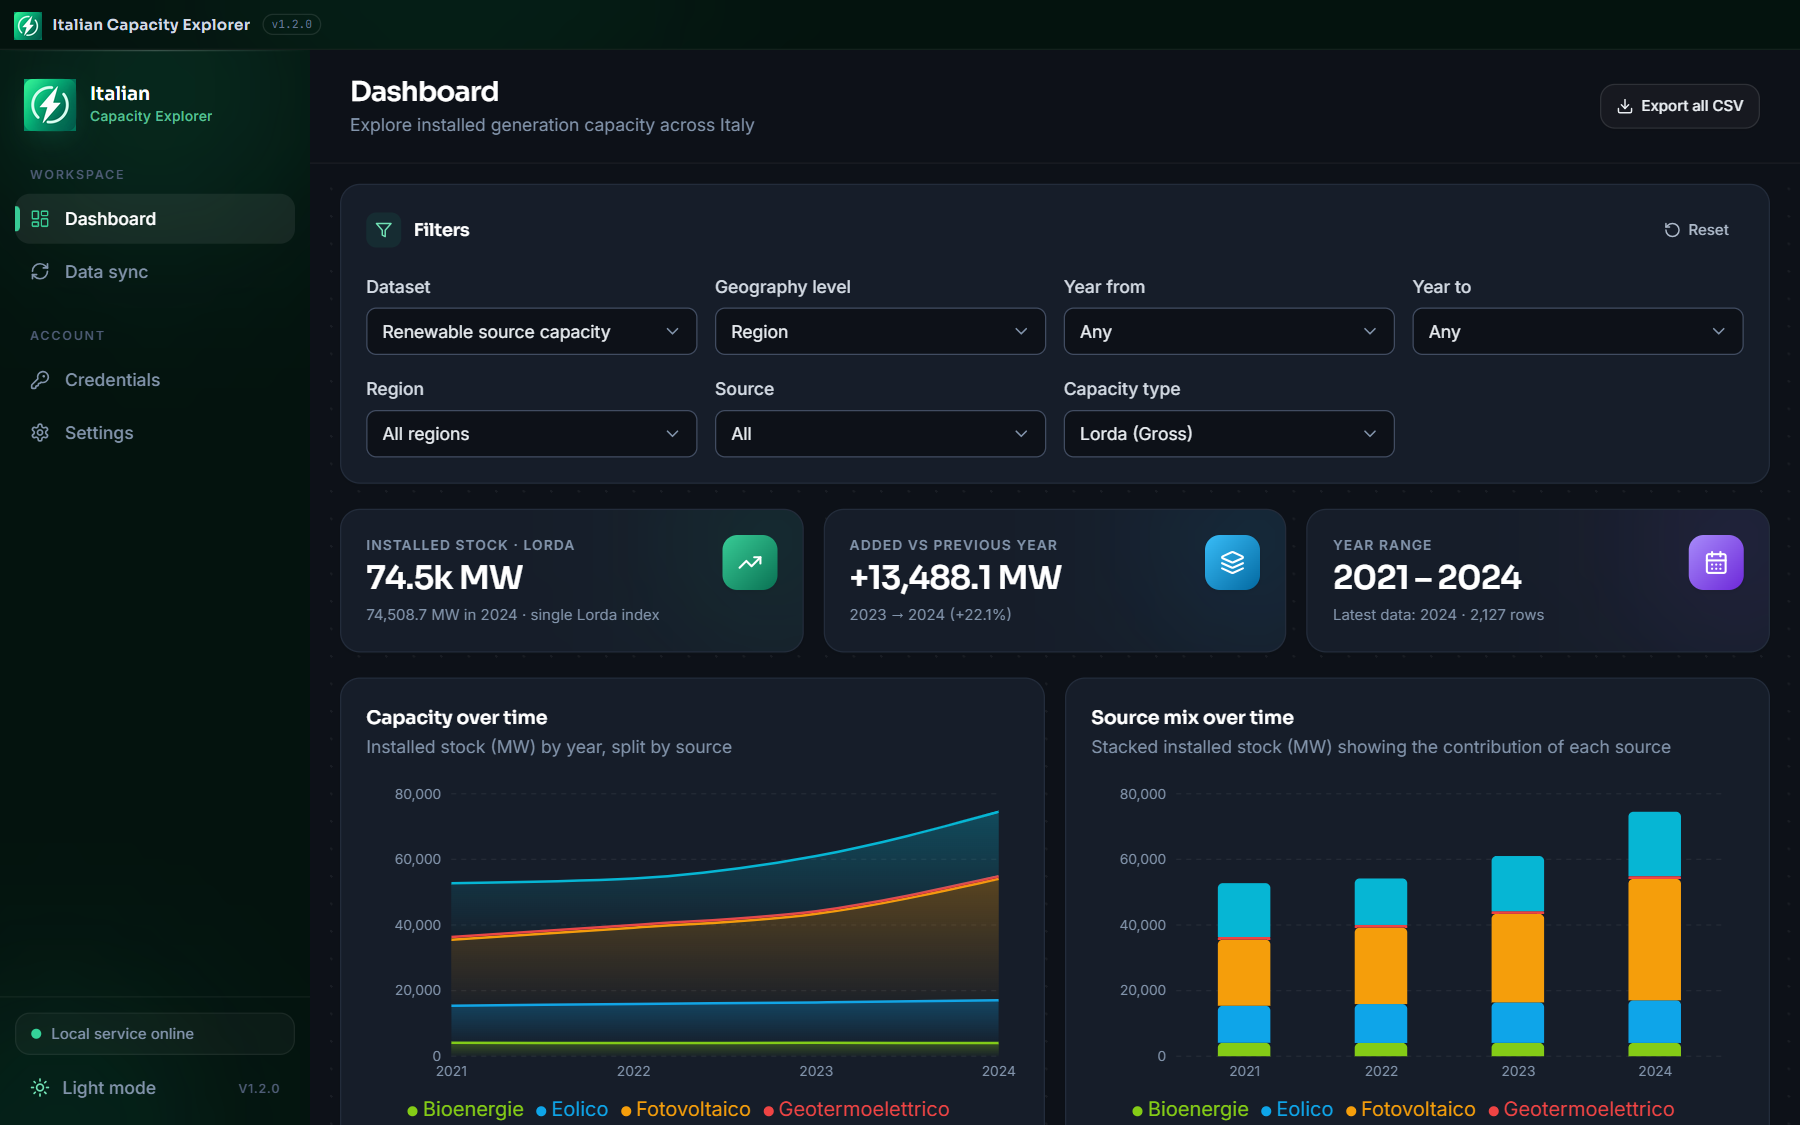
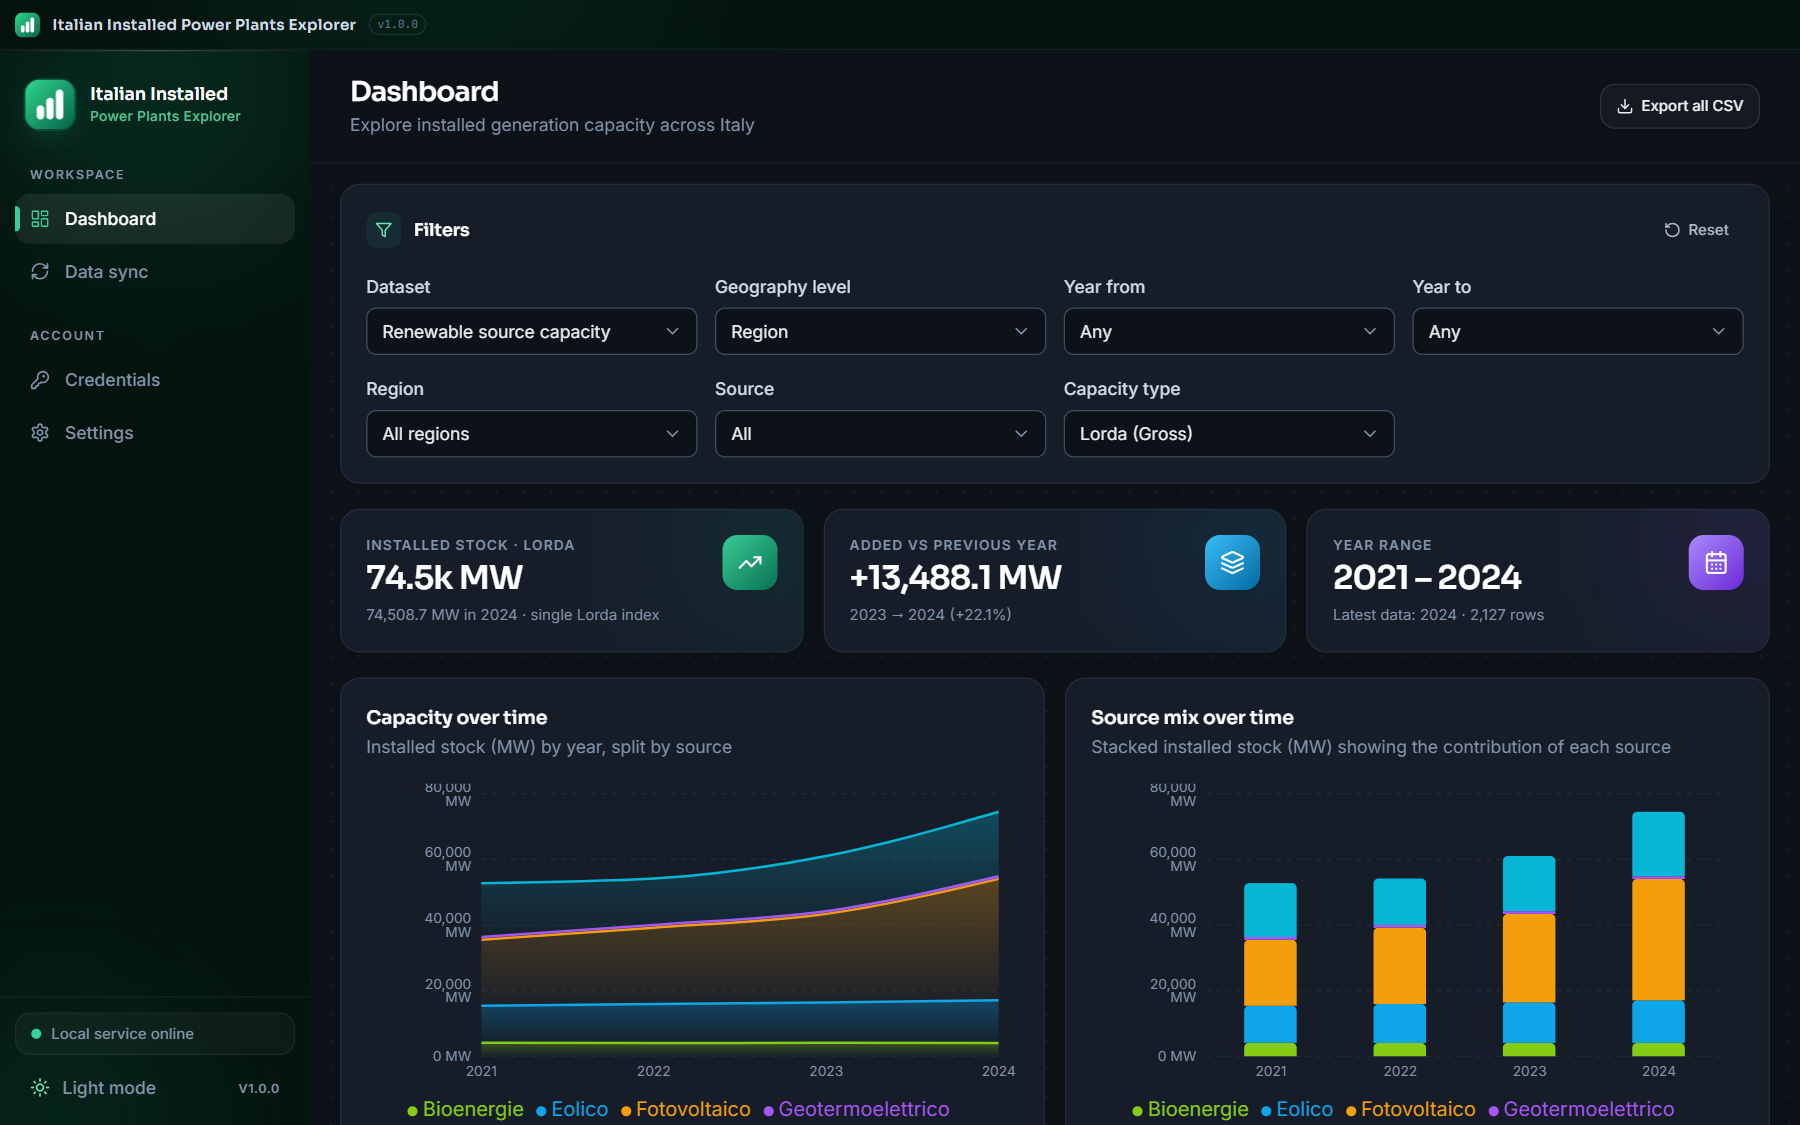
Rename to Italian Installed Power Plants Explorer, first release 1.0.0
The product, package, repository slug, PWA manifest, window title and documentation now use the final name; the app data folder migrates from both previous names (ItalianCapacityExplorer and TernaInstalledCapacity) keeping the cache intact — verified on a real install with 12.232 rows. Version reset to 1.0.0 for the first public release, interface rebuilt, screenshots recaptured and the social/hero images regenerated with the new name.

diff --git a/static/index.html b/static/index.html
@@ -6,26 +6,26 @@
     <link rel="manifest" href="/manifest.webmanifest" />
     <link rel="apple-touch-icon" href="/icon-192.png" />
     <meta name="viewport" content="width=device-width, initial-scale=1.0" />
-    <meta name="description" content="Italian Capacity Explorer — explore installed generation capacity across Italy, locally on your desktop." />
+    <meta name="description" content="Italian Installed Power Plants Explorer — explore installed generation capacity across Italy, locally on your desktop." />
     <meta name="theme-color" content="#04130e" />
     <meta property="og:type" content="website" />
-    <meta property="og:title" content="Italian Capacity Explorer" />
+    <meta property="og:title" content="Italian Installed Power Plants Explorer" />
     <meta property="og:description" content="Explore Italy's installed generation capacity locally, with Terna data." />
     <meta property="og:image" content="/og-image.png" />
     <meta property="og:image:width" content="1200" />
     <meta property="og:image:height" content="630" />
     <meta name="twitter:card" content="summary_large_image" />
-    <meta name="twitter:title" content="Italian Capacity Explorer" />
+    <meta name="twitter:title" content="Italian Installed Power Plants Explorer" />
     <meta name="twitter:description" content="Explore Italy's installed generation capacity locally, with Terna data." />
     <meta name="twitter:image" content="/og-image.png" />
-    <title>Italian Capacity Explorer</title>
-    <script type="module" crossorigin src="/assets/index-BglHf0e7.js"></script>
+    <title>Italian Installed Power Plants Explorer</title>
+    <script type="module" crossorigin src="/assets/index-B0g5nmNv.js"></script>
     <link rel="modulepreload" crossorigin href="/assets/vendor-react-CTF3l6S7.js">
     <link rel="modulepreload" crossorigin href="/assets/vendor-query-BX4wGWa-.js">
     <link rel="modulepreload" crossorigin href="/assets/vendor-charts-Bp6O3Z6U.js">
-    <link rel="stylesheet" crossorigin href="/assets/index-BtmEehbX.css">
+    <link rel="stylesheet" crossorigin href="/assets/index-CU5AfCiO.css">
   </head>
   <body>
-    <div id="root"></div>
+    <div id="root"></div>
   </body>
 </html>

diff --git a/tests/settings.test.ts b/tests/settings.test.ts
@@ -12,28 +12,30 @@ afterEach(() => {
   else process.env.TERNA_APP_DATA_DIR = previousDataDir;
 });
 
-test("la cartella dati migra dal nome precedente alla rinomina", () => {
+test("la cartella dati migra dai nomi precedenti a quello attuale", () => {
   delete process.env.TERNA_APP_DATA_DIR;
-  const root = mkdtempSync(join(tmpdir(), "ice-root-"));
-  const legacy = join(root, "TernaInstalledCapacity");
-  mkdirSync(legacy, { recursive: true });
-  writeFileSync(join(legacy, "settings.json"), '{"client_id":"vecchio"}', "utf8");
+  for (const legacyName of ["ItalianCapacityExplorer", "TernaInstalledCapacity"]) {
+    const root = mkdtempSync(join(tmpdir(), "ice-root-"));
+    const legacy = join(root, legacyName);
+    mkdirSync(legacy, { recursive: true });
+    writeFileSync(join(legacy, "settings.json"), '{"client_id":"vecchio"}', "utf8");
 
-  const resolved = appDataDir(root);
+    const resolved = appDataDir(root);
 
-  expect(resolved).toBe(join(root, "ItalianCapacityExplorer"));
-  expect(existsSync(join(resolved, "settings.json"))).toBe(true);
-  expect(existsSync(legacy)).toBe(false);
+    expect(resolved).toBe(join(root, "ItalianInstalledPowerPlantsExplorer"));
+    expect(existsSync(join(resolved, "settings.json"))).toBe(true);
+    expect(existsSync(legacy)).toBe(false);
+  }
 });
 
 test("se esistono entrambe vince la cartella nuova", () => {
   delete process.env.TERNA_APP_DATA_DIR;
   const root = mkdtempSync(join(tmpdir(), "ice-root-"));
-  mkdirSync(join(root, "TernaInstalledCapacity"), { recursive: true });
   mkdirSync(join(root, "ItalianCapacityExplorer"), { recursive: true });
+  mkdirSync(join(root, "ItalianInstalledPowerPlantsExplorer"), { recursive: true });
 
-  expect(appDataDir(root)).toBe(join(root, "ItalianCapacityExplorer"));
-  expect(existsSync(join(root, "TernaInstalledCapacity"))).toBe(true);
+  expect(appDataDir(root)).toBe(join(root, "ItalianInstalledPowerPlantsExplorer"));
+  expect(existsSync(join(root, "ItalianCapacityExplorer"))).toBe(true);
 });
 
 test("le credenziali salvano il client id nel file e il segreto nel portachiavi", async () => {

diff --git a/index.html b/index.html
@@ -6,19 +6,19 @@
     <link rel="manifest" href="/manifest.webmanifest" />
     <link rel="apple-touch-icon" href="/icon-192.png" />
     <meta name="viewport" content="width=device-width, initial-scale=1.0" />
-    <meta name="description" content="Italian Capacity Explorer — explore installed generation capacity across Italy, locally on your desktop." />
+    <meta name="description" content="Italian Installed Power Plants Explorer — explore installed generation capacity across Italy, locally on your desktop." />
     <meta name="theme-color" content="#04130e" />
     <meta property="og:type" content="website" />
-    <meta property="og:title" content="Italian Capacity Explorer" />
+    <meta property="og:title" content="Italian Installed Power Plants Explorer" />
     <meta property="og:description" content="Explore Italy's installed generation capacity locally, with Terna data." />
     <meta property="og:image" content="/og-image.png" />
     <meta property="og:image:width" content="1200" />
     <meta property="og:image:height" content="630" />
     <meta name="twitter:card" content="summary_large_image" />
-    <meta name="twitter:title" content="Italian Capacity Explorer" />
+    <meta name="twitter:title" content="Italian Installed Power Plants Explorer" />
     <meta name="twitter:description" content="Explore Italy's installed generation capacity locally, with Terna data." />
     <meta name="twitter:image" content="/og-image.png" />
-    <title>Italian Capacity Explorer</title>
+    <title>Italian Installed Power Plants Explorer</title>
   </head>
   <body>
     <div id="root"></div>

diff --git a/server/settings.ts b/server/settings.ts
@@ -9,8 +9,9 @@ import { join } from "node:path";
 
 import { createSecretStore, type SecretStore } from "./secrets.ts";
 
-const APP_DIR_NAME = "ItalianCapacityExplorer";
-const LEGACY_APP_DIR_NAME = "TernaInstalledCapacity";
+const APP_DIR_NAME = "ItalianInstalledPowerPlantsExplorer";
+/** Cartelle usate prima della rinomina: la migrazione le segue in ordine. */
+const LEGACY_APP_DIR_NAMES = ["ItalianCapacityExplorer", "TernaInstalledCapacity"];
 export const SETTINGS_FILE = "settings.json";
 
 interface SettingsPayload {
@@ -29,12 +30,16 @@ export function appDataDir(root: string = appDataRoot()): string {
   if (override) return override;
 
   const target = join(root, APP_DIR_NAME);
-  const legacy = join(root, LEGACY_APP_DIR_NAME);
-  if (!existsSync(target) && existsSync(legacy)) {
-    try {
-      renameSync(legacy, target); // migrazione una tantum, stessa cartella padre
-    } catch {
-      return legacy;
+  if (!existsSync(target)) {
+    for (const legacyName of LEGACY_APP_DIR_NAMES) {
+      const legacy = join(root, legacyName);
+      if (!existsSync(legacy)) continue;
+      try {
+        renameSync(legacy, target); // migrazione una tantum, stessa cartella padre
+      } catch {
+        return legacy;
+      }
+      break;
     }
   }
   return target;

diff --git a/server/cli.ts b/server/cli.ts
@@ -45,7 +45,7 @@ function parseArgs(argv: string[]): CliOptions {
   --browser     apre il browser di sistema invece della finestra app
   --no-window   avvia solo il server locale
   --port N      forza la porta (default: libera scelta dal sistema)
-  --data-dir    cartella dati alternativa (default: %APPDATA%/ItalianCapacityExplorer)`);
+  --data-dir    cartella dati alternativa (default: %APPDATA%/ItalianInstalledPowerPlantsExplorer)`);
       process.exit(0);
     }
   }
@@ -82,7 +82,7 @@ function main(): void {
     // il log non è critico: se la cartella non è scrivibile si prosegue
   }
 
-  console.log(`Italian Capacity Explorer in ascolto su ${app.url}`);
+  console.log(`Italian Installed Power Plants Explorer in ascolto su ${app.url}`);
   console.log(`Dati in ${app.settings.load().dataDir}`);
   if (app.portFallback) {
     console.warn(`Porta preferita occupata: uso ${app.port}. La PWA installata punta alla porta stabile.`);

diff --git a/src/pages/SettingsPage.tsx b/src/pages/SettingsPage.tsx
@@ -127,7 +127,7 @@ export function SettingsPage() {
             <p className="flex items-start gap-2.5">
               <Info className="mt-0.5 h-4 w-4 shrink-0 text-brand-600 dark:text-brand-400" />
               <span>
-                Italian Capacity Explorer lets you explore <em>installed generation capacity</em> across Italy&apos;s
+                Italian Installed Power Plants Explorer lets you explore <em>installed generation capacity</em> across Italy&apos;s
                 regions and provinces — aggregated by the Terna Developer API and stored locally on your machine.
               </span>
             </p>

diff --git a/src/components/layout/Sidebar.tsx b/src/components/layout/Sidebar.tsx
@@ -113,9 +113,9 @@ export function Sidebar() {
           <BrandMark className="h-10 w-10 rounded-xl shadow-glow" />
         </div>
         <div className="min-w-0">
-          <p className="font-display text-[15px] font-semibold leading-tight text-white">Italian</p>
+          <p className="font-display text-[14px] font-semibold leading-tight text-white">Italian Installed</p>
           <p className="truncate text-[11px] font-medium tracking-wide text-brand-300/80">
-            Capacity Explorer
+            Power Plants Explorer
           </p>
         </div>
       </div>

diff --git a/src/components/layout/TitleBar.tsx b/src/components/layout/TitleBar.tsx
@@ -16,7 +16,7 @@ export function TitleBar() {
       <div className="relative flex min-w-0 items-center gap-2.5 pl-3">
         <BrandMark className="h-5 w-5 rounded-md" />
         <span className="truncate font-display text-xs font-semibold tracking-wide text-ink-200">
-          Italian Capacity Explorer
+          Italian Installed Power Plants Explorer
         </span>
         <span className="hidden rounded-full border border-white/10 px-1.5 py-px font-mono text-[9px] text-ink-500 sm:inline">
           v{APP_VERSION}

diff --git a/src/pages/OnboardingPage.tsx b/src/pages/OnboardingPage.tsx
@@ -52,7 +52,7 @@ export function OnboardingPage() {
             <h1 className="mt-7 font-display text-[28px] font-semibold leading-tight tracking-tight text-white">
               Welcome to{" "}
               <span className="bg-gradient-to-r from-brand-300 to-emerald-200 bg-clip-text text-transparent">
-                Italian Capacity Explorer
+                Italian Installed Power Plants Explorer
               </span>
             </h1>
             <p className="mt-3 max-w-sm text-sm leading-relaxed text-ink-300">

diff --git a/src/components/ui/BrandMark.tsx b/src/components/ui/BrandMark.tsx
@@ -1,6 +1,6 @@
 export function BrandMark({ className }: { className?: string }) {
   return (
-    <svg viewBox="0 0 1024 1024" className={className} role="img" aria-label="Italian Capacity Explorer">
+    <svg viewBox="0 0 1024 1024" className={className} role="img" aria-label="Italian Installed Power Plants Explorer">
       <defs>
         <linearGradient id="brandmark-tile" x1="0" y1="0" x2="1" y2="1">
           <stop offset="0" stopColor="#2fd98f" />

diff --git a/public/sw.js b/public/sw.js
@@ -3,7 +3,7 @@
  * fretta. Non mette mai in cache le risposte dell'API (i dati sono già locali e
  * devono restare freschi): solo l'involucro statico.
  */
-const CACHE = "ice-shell-v2";
+const CACHE = "ice-shell-v3";
 const SHELL = ["/", "/index.html", "/favicon.svg", "/manifest.webmanifest", "/icon-192.png", "/icon-512.png"];
 
 self.addEventListener("install", (event) => {

diff --git a/static/sw.js b/static/sw.js
@@ -3,7 +3,7 @@
  * fretta. Non mette mai in cache le risposte dell'API (i dati sono già locali e
  * devono restare freschi): solo l'involucro statico.
  */
-const CACHE = "ice-shell-v2";
+const CACHE = "ice-shell-v3";
 const SHELL = ["/", "/index.html", "/favicon.svg", "/manifest.webmanifest", "/icon-192.png", "/icon-512.png"];
 
 self.addEventListener("install", (event) => {
